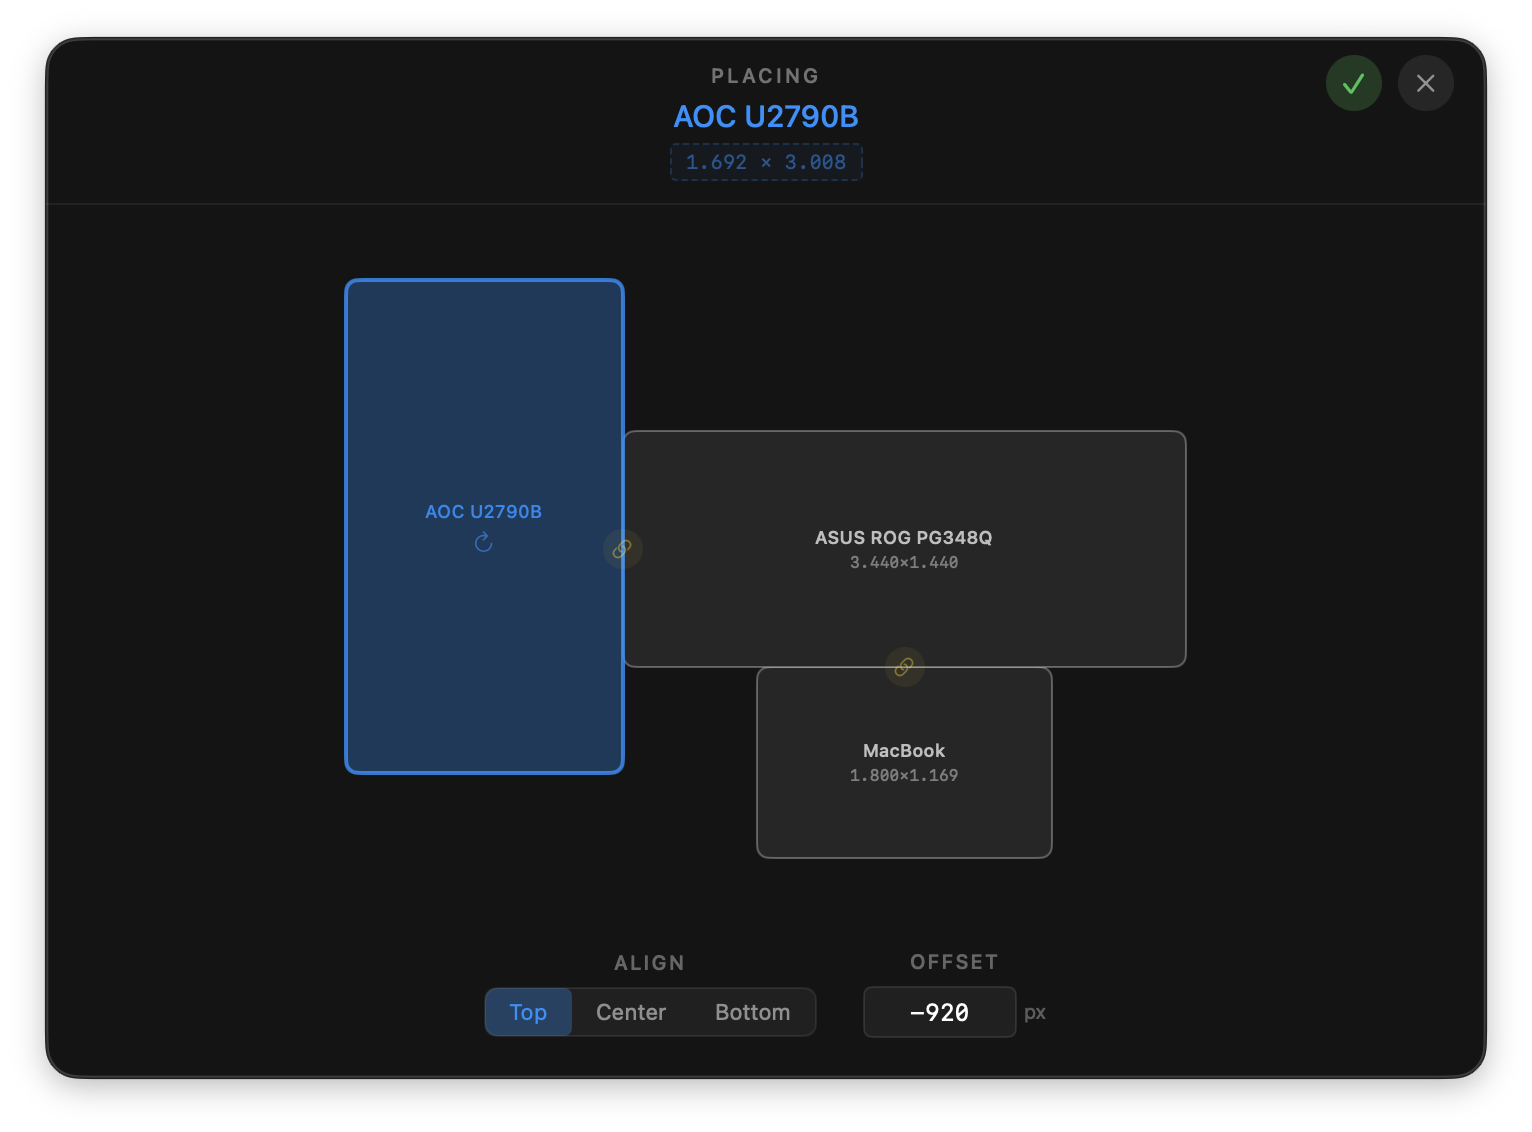
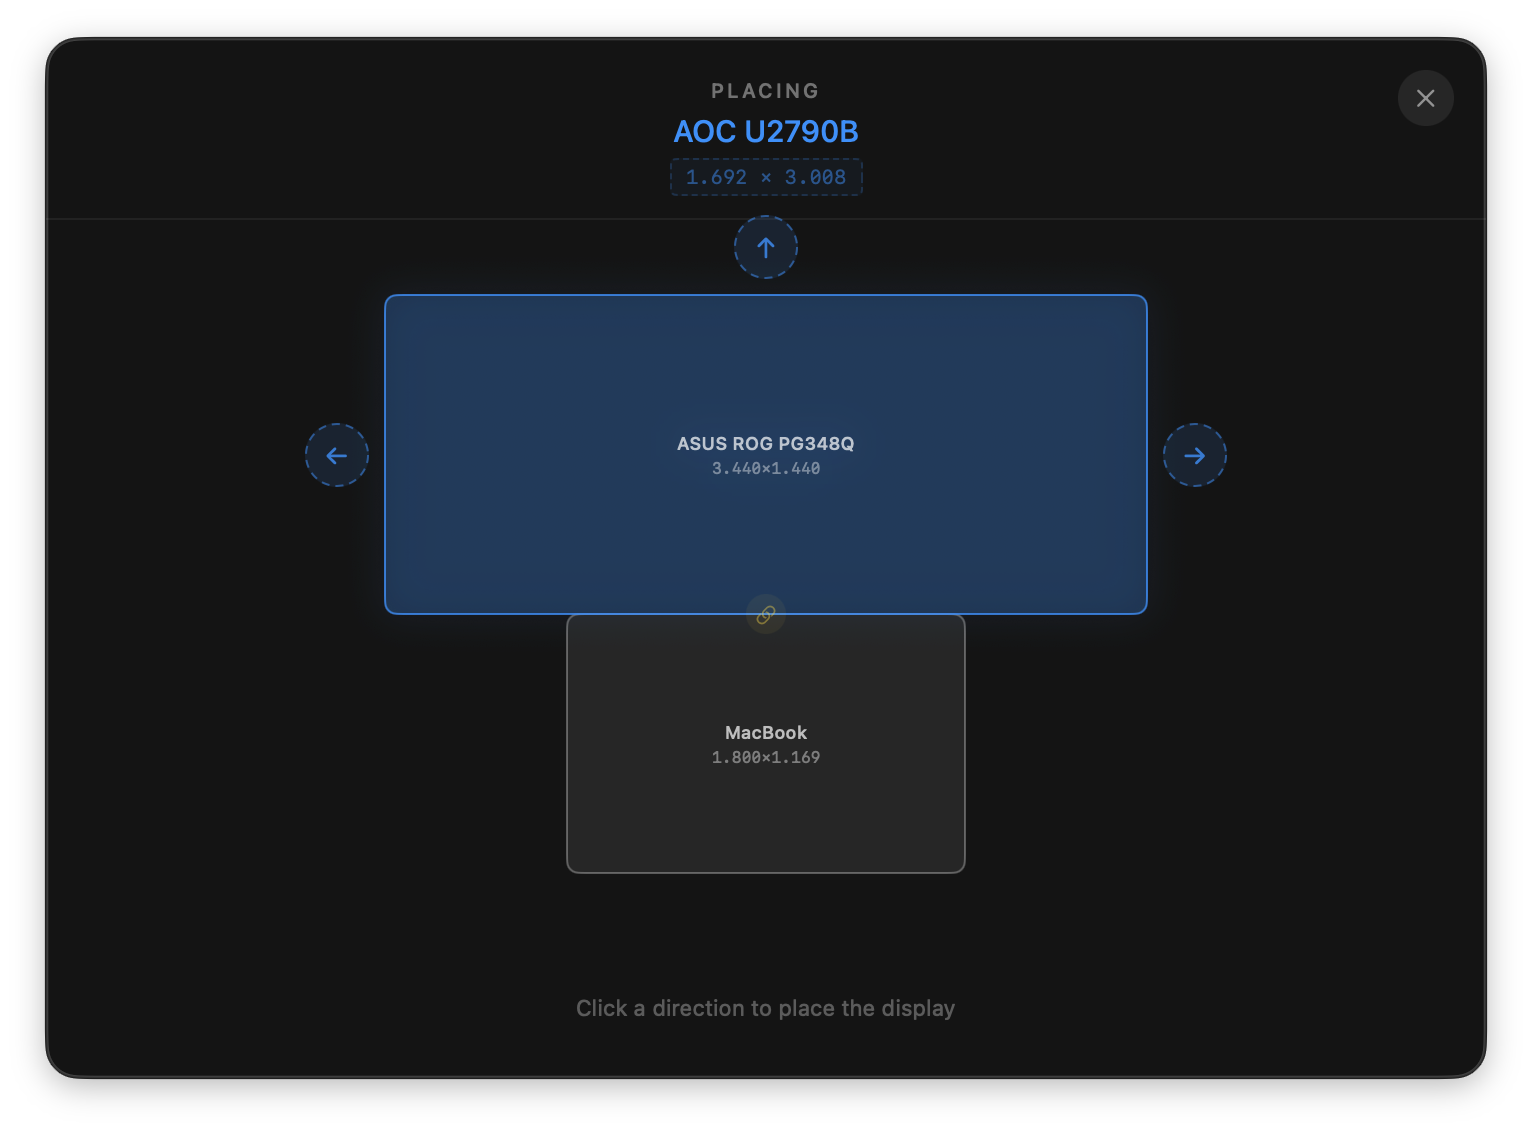
docs: overhaul used images and reword the scenery a bit

diff --git a/README.md b/README.md
@@ -35,20 +35,16 @@ When a new display connects that isn't in any arrangement, the app opens a visua
 Tap any placed display to re-enter fine-tuning. Unchain (unlink) a display to reposition it from scratch.
 
 <p align="center">
+  <img src="assets/editor-placing.png" alt="Editor showing placing buttons to put a new display to an edge" width="660">
+  <br><em>Place a new Screen to an edge of an exisiting one.</em>
+</p>
+<p align="center">
   <img src="assets/editor-arrangement.png" alt="Editor showing current display arrangement" width="660">
-  <br><em>Current arrangement overview</em>
+  <br><em>Arrange a new Screen to your needs</em>
 </p>
 <p align="center">
-  <img src="assets/editor-directions.png" alt="Direction arrows for choosing placement side" width="660">
-  <br><em>Direction indicators after selecting an anchor</em>
-</p>
-<p align="center">
-  <img src="assets/editor-countdown.png" alt="Live preview with countdown timer" width="660">
-  <br><em>Live preview with revert countdown</em>
-</p>
-<p align="center">
-  <img src="assets/editor-complete.png" alt="Completed multi-display arrangement" width="660">
-  <br><em>Finished arrangement ready to save</em>
+  <img src="assets/editor-ready-to-save.png" alt="Ready to save ends with a live preview to confirm changes" width="660">
+  <br><em>Preview arrangement before saving changes.</em>
 </p>
 
 ## Config
